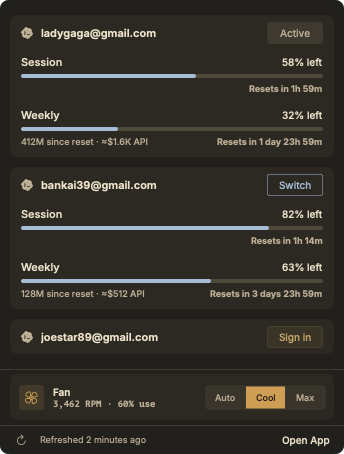
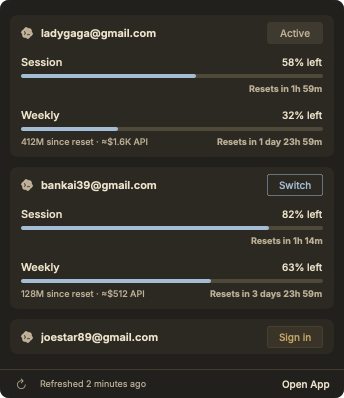
Prepare Switch 3.2.1

diff --git a/docs/release-notes.md b/docs/release-notes.md
@@ -1,17 +1,12 @@
 Switch is a native macOS app for keeping multiple AI coding-tool accounts ready
 and switching the account used by new sessions.
 
-This release adds a compact fan row to the menu-bar popover. It shows live RPM and
-percentage of maximum speed, with a contiguous Auto, Cool, and Max control matching
-Switch's Ivory and Espresso popover styles. Fan sensors are read only while the
-popover is visible, on a three-second cadence, so the feature adds no idle polling.
+This release removes an accidental fan-monitoring and fan-control module that belonged
+to another app. Switch no longer opens AppleSMC, talks to smctld, ships fan-control code,
+or shows fan controls in its menu-bar popover.
 
-Monitoring works directly through the Mac's SMC. Fan writes remain read-only unless
-the optional smctl daemon is available; when enabled, Switch uses smctl's verified,
-thermal-guarded control path instead of writing fan state directly.
-
-This release also retains the idle CPU fix, three-minute usage refresh, Open at Login,
-provider-scoped defaults, and the custom grouped controls added in 3.1.x.
+Switch retains the idle CPU fix, three-minute usage refresh, Open at Login,
+provider-scoped defaults, and custom grouped controls added in 3.1.x.
 
 Download the Mac ZIP, unzip it, and move `Switch.app` to Applications. Switch
 requires macOS 14 or later on Apple Silicon. Install Codex CLI or Grok Build for

diff --git a/README.md b/README.md
@@ -12,7 +12,7 @@ tool without repeating its sign-in flow.
 
 ## Get Switch for Mac
 
-[Download Switch for Mac](https://github.com/surajmandalcell/switch/releases/download/v3.2.0/Switch-v3.2.0-mac-arm64.zip),
+[Download Switch for Mac](https://github.com/surajmandalcell/switch/releases/download/v3.2.1/Switch-v3.2.1-mac-arm64.zip),
 unzip it, and move `Switch.app` to Applications. Switch requires macOS 14 or
 later on Apple Silicon. Install the command-line tool for each provider you use.
 
@@ -69,16 +69,6 @@ The menu bar lists every saved account and the current default for each provider
 When a provider exposes usage data, Switch also shows its available limits and refreshes
 them at launch and every three minutes. The status item can show up to four account
 percentages, and the popover lists every account without inventing unavailable data.
-
-The popover also shows current fan RPM and percentage of maximum speed. Monitoring runs
-only while the popover is open. Auto, Cool, and Max become available when the
-[smctl](https://github.com/leaperone/smctl) daemon is installed; Switch keeps fan control
-read-only otherwise. To enable guarded control:
-
-```bash
-brew install leaperone/smctl/smctl
-sudo smctl daemon install
-```
 
 | Light | Dark |
 | :---: | :---: |

diff --git a/docs/development.md b/docs/development.md
@@ -104,7 +104,7 @@ The first Switch version must be newer than the repository's legacy
 `v2.1.2` tag. To publish an ad hoc signed release from a clean, pushed commit:
 
 ```bash
-scripts/release-macos.sh --adhoc v3.2.0
+scripts/release-macos.sh --adhoc v3.2.1
 ```
 
 The script marks the release as Latest and uploads its ZIP and checksum. It uses
